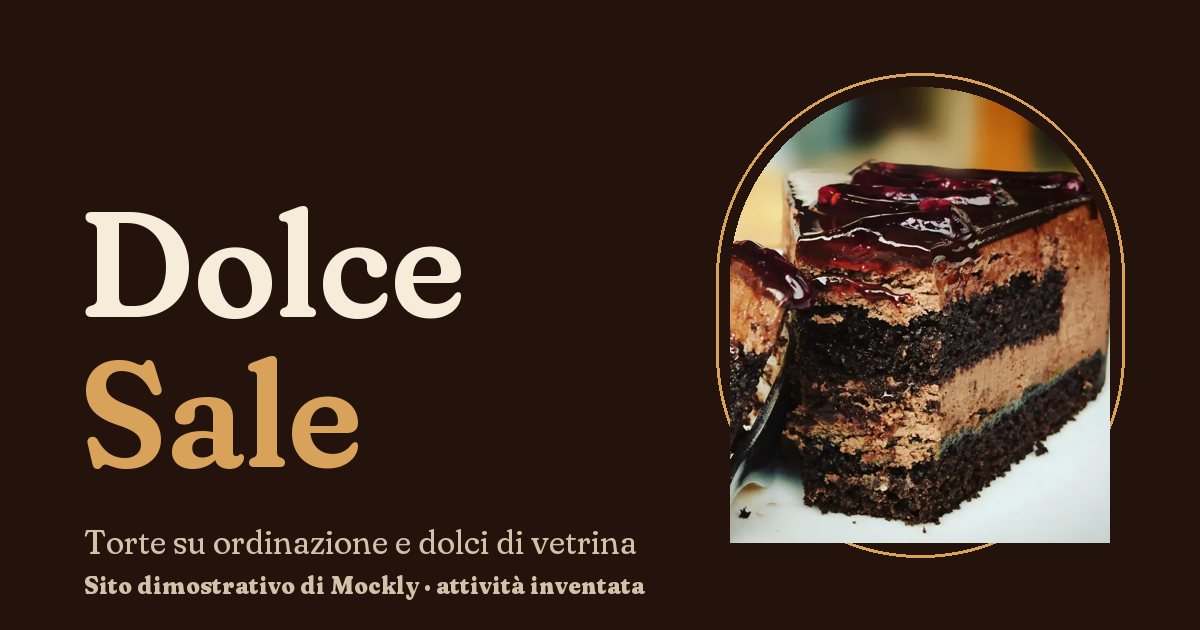
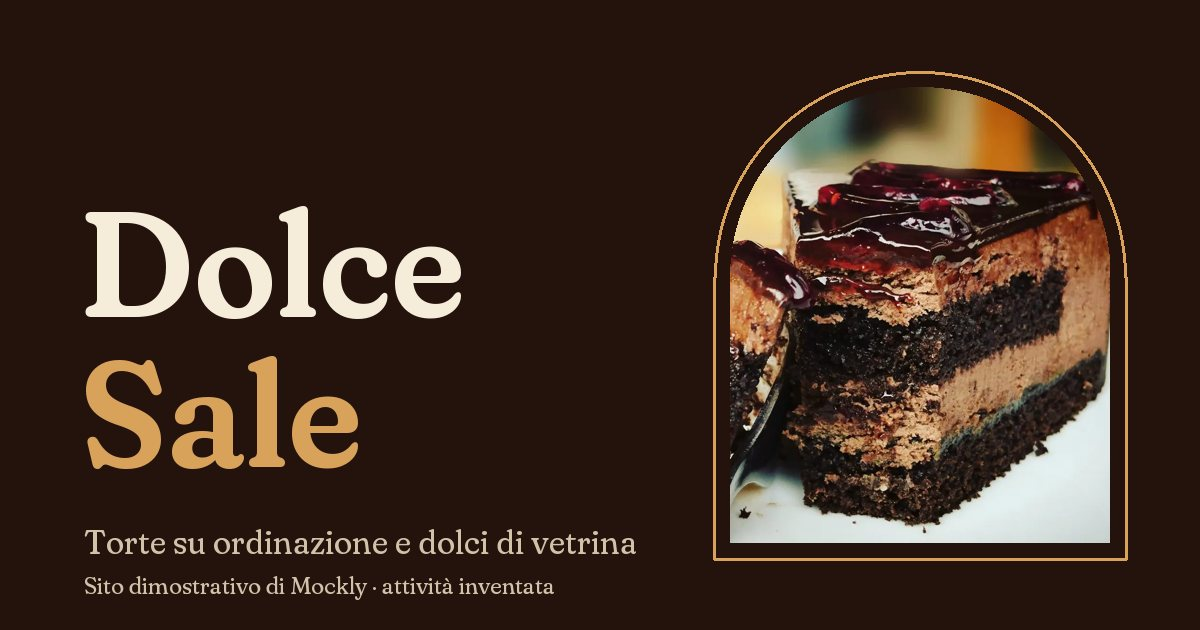
Rifiniture: prima schermata da telefono, hero da computer, striscia demo e controlli di accessibilità

diff --git a/assets/css/style.css b/assets/css/style.css
@@ -107,9 +107,8 @@ em { font-style: italic; }
 .link-arrow:active { transform: translateX(3px); }
 
 /* ---------- Striscia "sito dimostrativo" ---------- */
-.demo-bar { background: var(--caramel); color: var(--choc-900); padding: .1rem var(--gutter); text-align: center; font-size: 1rem; line-height: 1.35; position: relative; z-index: 61; }
-.demo-bar p { display: flex; flex-wrap: wrap; justify-content: center; align-items: center; column-gap: .35rem; }
-.demo-bar a { font-weight: 700; display: inline-flex; align-items: center; min-height: 2.75rem; }
+.demo-bar { background: var(--caramel); color: var(--choc-900); padding: .45rem var(--gutter) 0; text-align: center; font-size: 1rem; line-height: 1.35; position: relative; z-index: 61; }
+.demo-bar a { font-weight: 700; display: inline-block; padding: .65rem .2rem; line-height: 1.1; }
 
 /* ---------- Intestazione ---------- */
 .site-header {
@@ -186,9 +185,9 @@ main { position: relative; }
 .hero__title em { color: var(--caramel); font-weight: 500; }
 .hero__title span { display: inline; }
 .hero__art { position: relative; order: 0; width: fit-content; }
-.hero__art { margin-block: 1rem .9rem; }
+.hero__art { margin-block: 1.35rem 1.1rem; }
 .hero__arch {
-  position: relative; height: min(37svh, 27rem); min-height: 13rem; aspect-ratio: 4 / 5;
+  position: relative; height: min(33svh, 27rem); min-height: 13rem; aspect-ratio: 4 / 5;
   border-radius: 999px 999px 16px 16px; overflow: hidden; background: var(--choc-700);
 }
 .hero__arch img { width: 100%; height: 100%; object-fit: cover; transform-origin: 50% 70%; }
@@ -213,7 +212,8 @@ main { position: relative; }
 .forge__stage { padding: calc(var(--header-h) + 1.5rem) 0 2rem; display: grid; gap: 1.5rem; }
 .forge__head { display: grid; gap: .5rem; }
 .forge__head h2 { font-size: clamp(2rem, 8.5vw, 4.2rem); }
-.forge__cake { width: min(100%, 26rem); margin-inline: auto; }
+.forge__cake { width: min(100%, 26rem); margin-inline: auto; display: none; }
+.js .forge__cake { display: block; }
 .cake { width: 100%; height: auto; overflow: visible; }
 .forge__steps { display: grid; gap: 1.25rem; }
 .forge__step { display: grid; gap: .35rem; }

diff --git a/index.html b/index.html
@@ -26,6 +26,7 @@
   <link rel="manifest" href="site.webmanifest">
   <script>document.documentElement.classList.add("js");</script>
   <link rel="preload" href="assets/fonts/fraunces.woff2" as="font" type="font/woff2" crossorigin>
+  <link rel="preload" href="assets/fonts/fraunces-italic.woff2" as="font" type="font/woff2" crossorigin>
   <link rel="preload" href="assets/fonts/instrument-sans.woff2" as="font" type="font/woff2" crossorigin>
   <link rel="preload" href="assets/img/eroe-800.webp" as="image" imagesrcset="assets/img/eroe-480.webp 480w, assets/img/eroe-800.webp 800w" imagesizes="(min-width: 64em) 30rem, 70vw" fetchpriority="high">
   <link rel="stylesheet" href="assets/css/style.css">

diff --git a/404.html b/404.html
@@ -26,6 +26,7 @@
   <link rel="manifest" href="site.webmanifest">
   <script>document.documentElement.classList.add("js");</script>
   <link rel="preload" href="assets/fonts/fraunces.woff2" as="font" type="font/woff2" crossorigin>
+  <link rel="preload" href="assets/fonts/fraunces-italic.woff2" as="font" type="font/woff2" crossorigin>
   <link rel="preload" href="assets/fonts/instrument-sans.woff2" as="font" type="font/woff2" crossorigin>
   <link rel="stylesheet" href="assets/css/style.css">
 </head>

diff --git a/ordina.html b/ordina.html
@@ -26,6 +26,7 @@
   <link rel="manifest" href="site.webmanifest">
   <script>document.documentElement.classList.add("js");</script>
   <link rel="preload" href="assets/fonts/fraunces.woff2" as="font" type="font/woff2" crossorigin>
+  <link rel="preload" href="assets/fonts/fraunces-italic.woff2" as="font" type="font/woff2" crossorigin>
   <link rel="preload" href="assets/fonts/instrument-sans.woff2" as="font" type="font/woff2" crossorigin>
   <link rel="stylesheet" href="assets/css/style.css">
 </head>

diff --git a/vetrina.html b/vetrina.html
@@ -26,6 +26,7 @@
   <link rel="manifest" href="site.webmanifest">
   <script>document.documentElement.classList.add("js");</script>
   <link rel="preload" href="assets/fonts/fraunces.woff2" as="font" type="font/woff2" crossorigin>
+  <link rel="preload" href="assets/fonts/fraunces-italic.woff2" as="font" type="font/woff2" crossorigin>
   <link rel="preload" href="assets/fonts/instrument-sans.woff2" as="font" type="font/woff2" crossorigin>
   <link rel="stylesheet" href="assets/css/style.css">
 </head>

diff --git a/assets/js/main.js b/assets/js/main.js
@@ -51,7 +51,7 @@
     return { open: false, text: "Chiuso" };
   }
 
-  window.DS = { HOURS: HOURS, DAYS: DAYS, DAYS_S: DAYS_S, MONTHS: MONTHS, romeParts: romeParts, hm: hm, WA: WA, reduced: reduced };
+  window.DS = { openStatus: openStatus, HOURS: HOURS, DAYS: DAYS, DAYS_S: DAYS_S, MONTHS: MONTHS, romeParts: romeParts, hm: hm, WA: WA, reduced: reduced };
 
   /* ---------- Menu ---------- */
   var menuBtn = document.querySelector(".menu-btn");
